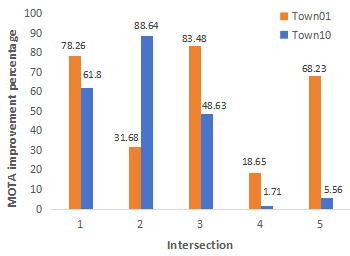
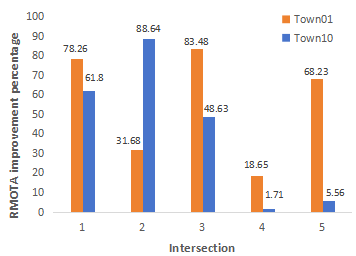
统一图片、公式和表格中的符号

diff --git a/waypoint_control/IEEE/main.tex b/waypoint_control/IEEE/main.tex
@@ -337,7 +337,7 @@ As demonstrated in Fig. \ref{fig:5}, we can derive the complete vehicle trajecto
 \begin{figure}[t]
 	\centering
 	\includegraphics[width=\linewidth]{picture/picture5.png} 
-	\caption{Trajectory restoration schematic} 
+	\caption{Trajectory restoration schematic.} 
 	\label{fig:5} 
 \end{figure}
 
@@ -383,7 +383,7 @@ We use an improved evaluation metric Robust Multi-Object Tracking Accuracy (R-MO
 The tracking sequence is divided into $W$ time windows, and each window independently calculates the local MOTA score to avoid the serious error of a single frame affecting the overall evaluation.
 In addition, the penalty for identity mismatching is amplified by the coefficient $\alpha$ to reflect the key impact of ID continuity on tracking quality.
 \begin{align}
-	\text{R-MOTA} = \underset{i=1}{\overset{W}{\mathrm{median}}} \left(1 - \frac{FN^{(i)} + FP^{(i)} + \alpha M^{(i)}}{T^{(i)}}\right) 
+	RMOTA = \underset{i=1}{\overset{W}{\mathrm{median}}} \left(1 - \frac{FN^{(i)} + FP^{(i)} + \alpha M^{(i)}}{T^{(i)}}\right) 
 \end{align}
 Among them,
 $FN^{(i)}$ (False Negatives) represents the number of missed detections in the $i$-th window, which means targets that truly exist but were not detected.
@@ -398,7 +398,7 @@ A perfect score of 1 represents flawless tracking with zero missed detections, f
 Multi-camera object tracking accuracy (MCTA)\cite{Alpher23b} condenses all aspects of system performance into a metric that measures cross-camera tracking.
 On this basis, this paper proposes an interpretable multi-camera object tracking accuracy (I-MCTA), which is defined as follows:
 \begin{align}
-	\text{I-MCTA} = {\frac{2PR}{P + R}}_{\text{}} \times \prod_{k \in \{w, h\}} \left(1 - \frac{M_k + \lambda E_k^{\text{ID}}}{T_k}\right)
+	IMCTA = {\frac{2PR}{P + R}}_{\text{}} \times \prod_{k \in \{w, h\}} \left(1 - \frac{M_k + \lambda E_k^{\text{ID}}}{T_k}\right)
 \end{align}
 by decomposing the cross-camera error into missing association $M_k$ and ID switching $E_k^{\text{ID}}$, accurate diagnosis of system defects is achieved.
 Among them,
@@ -449,7 +449,7 @@ We conducted the following experiments:
 	\small
 	\begin{tabular}{@{}l@{\hspace{1em}}c@{\hspace{0.5em}}*{10}{r}@{}}
 		\toprule
-		\textbf{Scene} & \textbf{Int.} & \textbf{Rcll} & \textbf{Prcn} & \textbf{FTR} & \textbf{FP} & \textbf{FN} & \textbf{IDS} & \textbf{MT} & \textbf{ML} & \textbf{R-MOTA} & \textbf{R-MOTP} \\
+		\textbf{Scene} & \textbf{Int.} & \textbf{Rcll} & \textbf{Prcn} & \textbf{FTR} & \textbf{FP} & \textbf{FN} & \textbf{IDS} & \textbf{MT} & \textbf{ML} & \textbf{RMOTA} & \textbf{RMOTP} \\
 		\midrule
 		\multirow{5}{*}{\shortstack[l]{Town01 \\ (16 int., flat roads, \\ sparsely populated \\ buildings)}} 
 		& 1 & 30.1025 & 59.9258 & 0.5106 & 216 & 750 & 18 & 0.0000 & 37.5000 & 8.2945 & 79.9222\\
@@ -594,7 +594,7 @@ The improvement results after optimization compared with before optimization are
 \begin{figure}[t]
 	\centering
 	\includegraphics[width=\linewidth]{picture/picture4.png} 
-	\caption{Trajectory restoration schematic} 
+	\caption{RMOTA improvement percentage.} 
 	\label{fig:4} 
 \end{figure}
 
